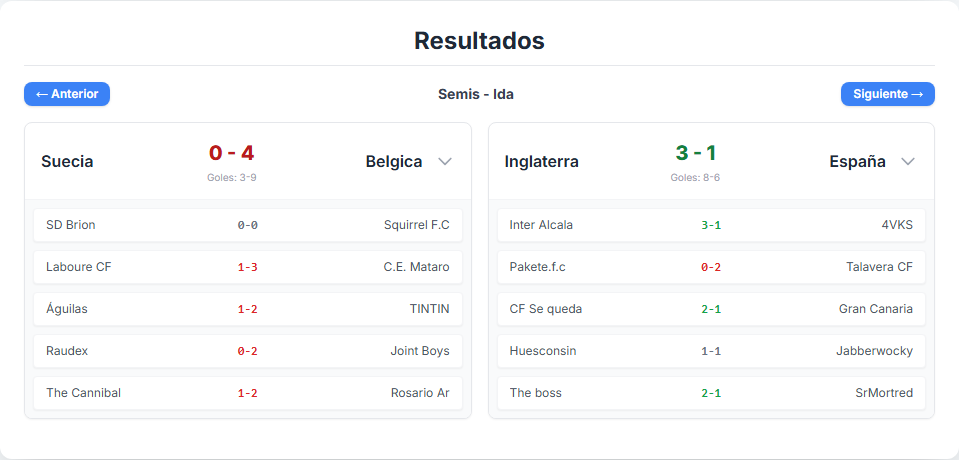
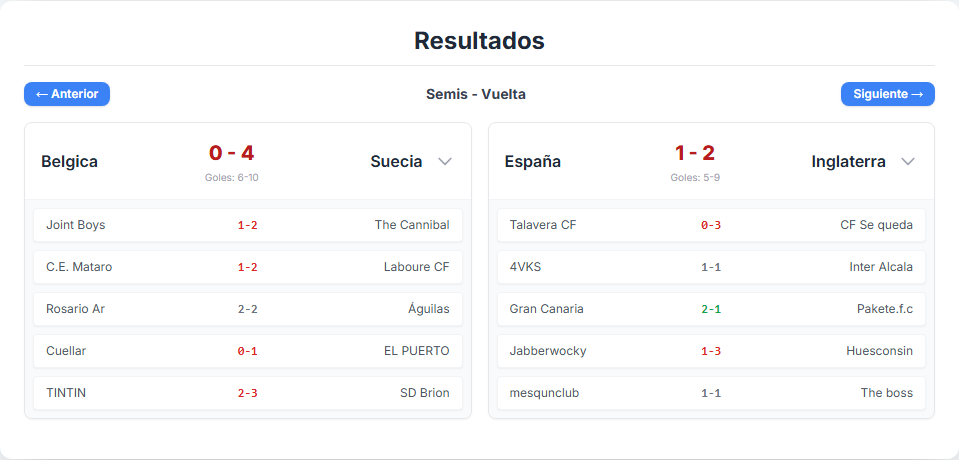
Actualización automática: 2025-12-20 11:24:23

diff --git a/index.html b/index.html
@@ -5723,6 +5723,86 @@
         "visit": "SrMortred",
         "jornada": 12,
         "is_scheduled": false
+    },
+    {
+        "local": "Joint Boys",
+        "gl": 1,
+        "gv": 2,
+        "visit": "The Cannibal",
+        "jornada": 13,
+        "is_scheduled": false
+    },
+    {
+        "local": "C.E. Mataro",
+        "gl": 1,
+        "gv": 2,
+        "visit": "Laboure CF",
+        "jornada": 13,
+        "is_scheduled": false
+    },
+    {
+        "local": "Rosario Ar",
+        "gl": 2,
+        "gv": 2,
+        "visit": "Águilas",
+        "jornada": 13,
+        "is_scheduled": false
+    },
+    {
+        "local": "Cuellar",
+        "gl": 0,
+        "gv": 1,
+        "visit": "EL PUERTO",
+        "jornada": 13,
+        "is_scheduled": false
+    },
+    {
+        "local": "TINTIN",
+        "gl": 2,
+        "gv": 3,
+        "visit": "SD Brion",
+        "jornada": 13,
+        "is_scheduled": false
+    },
+    {
+        "local": "Talavera CF",
+        "gl": 0,
+        "gv": 3,
+        "visit": "CF Se queda",
+        "jornada": 13,
+        "is_scheduled": false
+    },
+    {
+        "local": "4VKS",
+        "gl": 1,
+        "gv": 1,
+        "visit": "Inter Alcala",
+        "jornada": 13,
+        "is_scheduled": false
+    },
+    {
+        "local": "Gran Canaria",
+        "gl": 2,
+        "gv": 1,
+        "visit": "Pakete.f.c",
+        "jornada": 13,
+        "is_scheduled": false
+    },
+    {
+        "local": "Jabberwocky",
+        "gl": 1,
+        "gv": 3,
+        "visit": "Huesconsin",
+        "jornada": 13,
+        "is_scheduled": false
+    },
+    {
+        "local": "mesqunclub",
+        "gl": 1,
+        "gv": 1,
+        "visit": "The boss",
+        "jornada": 13,
+        "is_scheduled": false
     }
 ];
 
